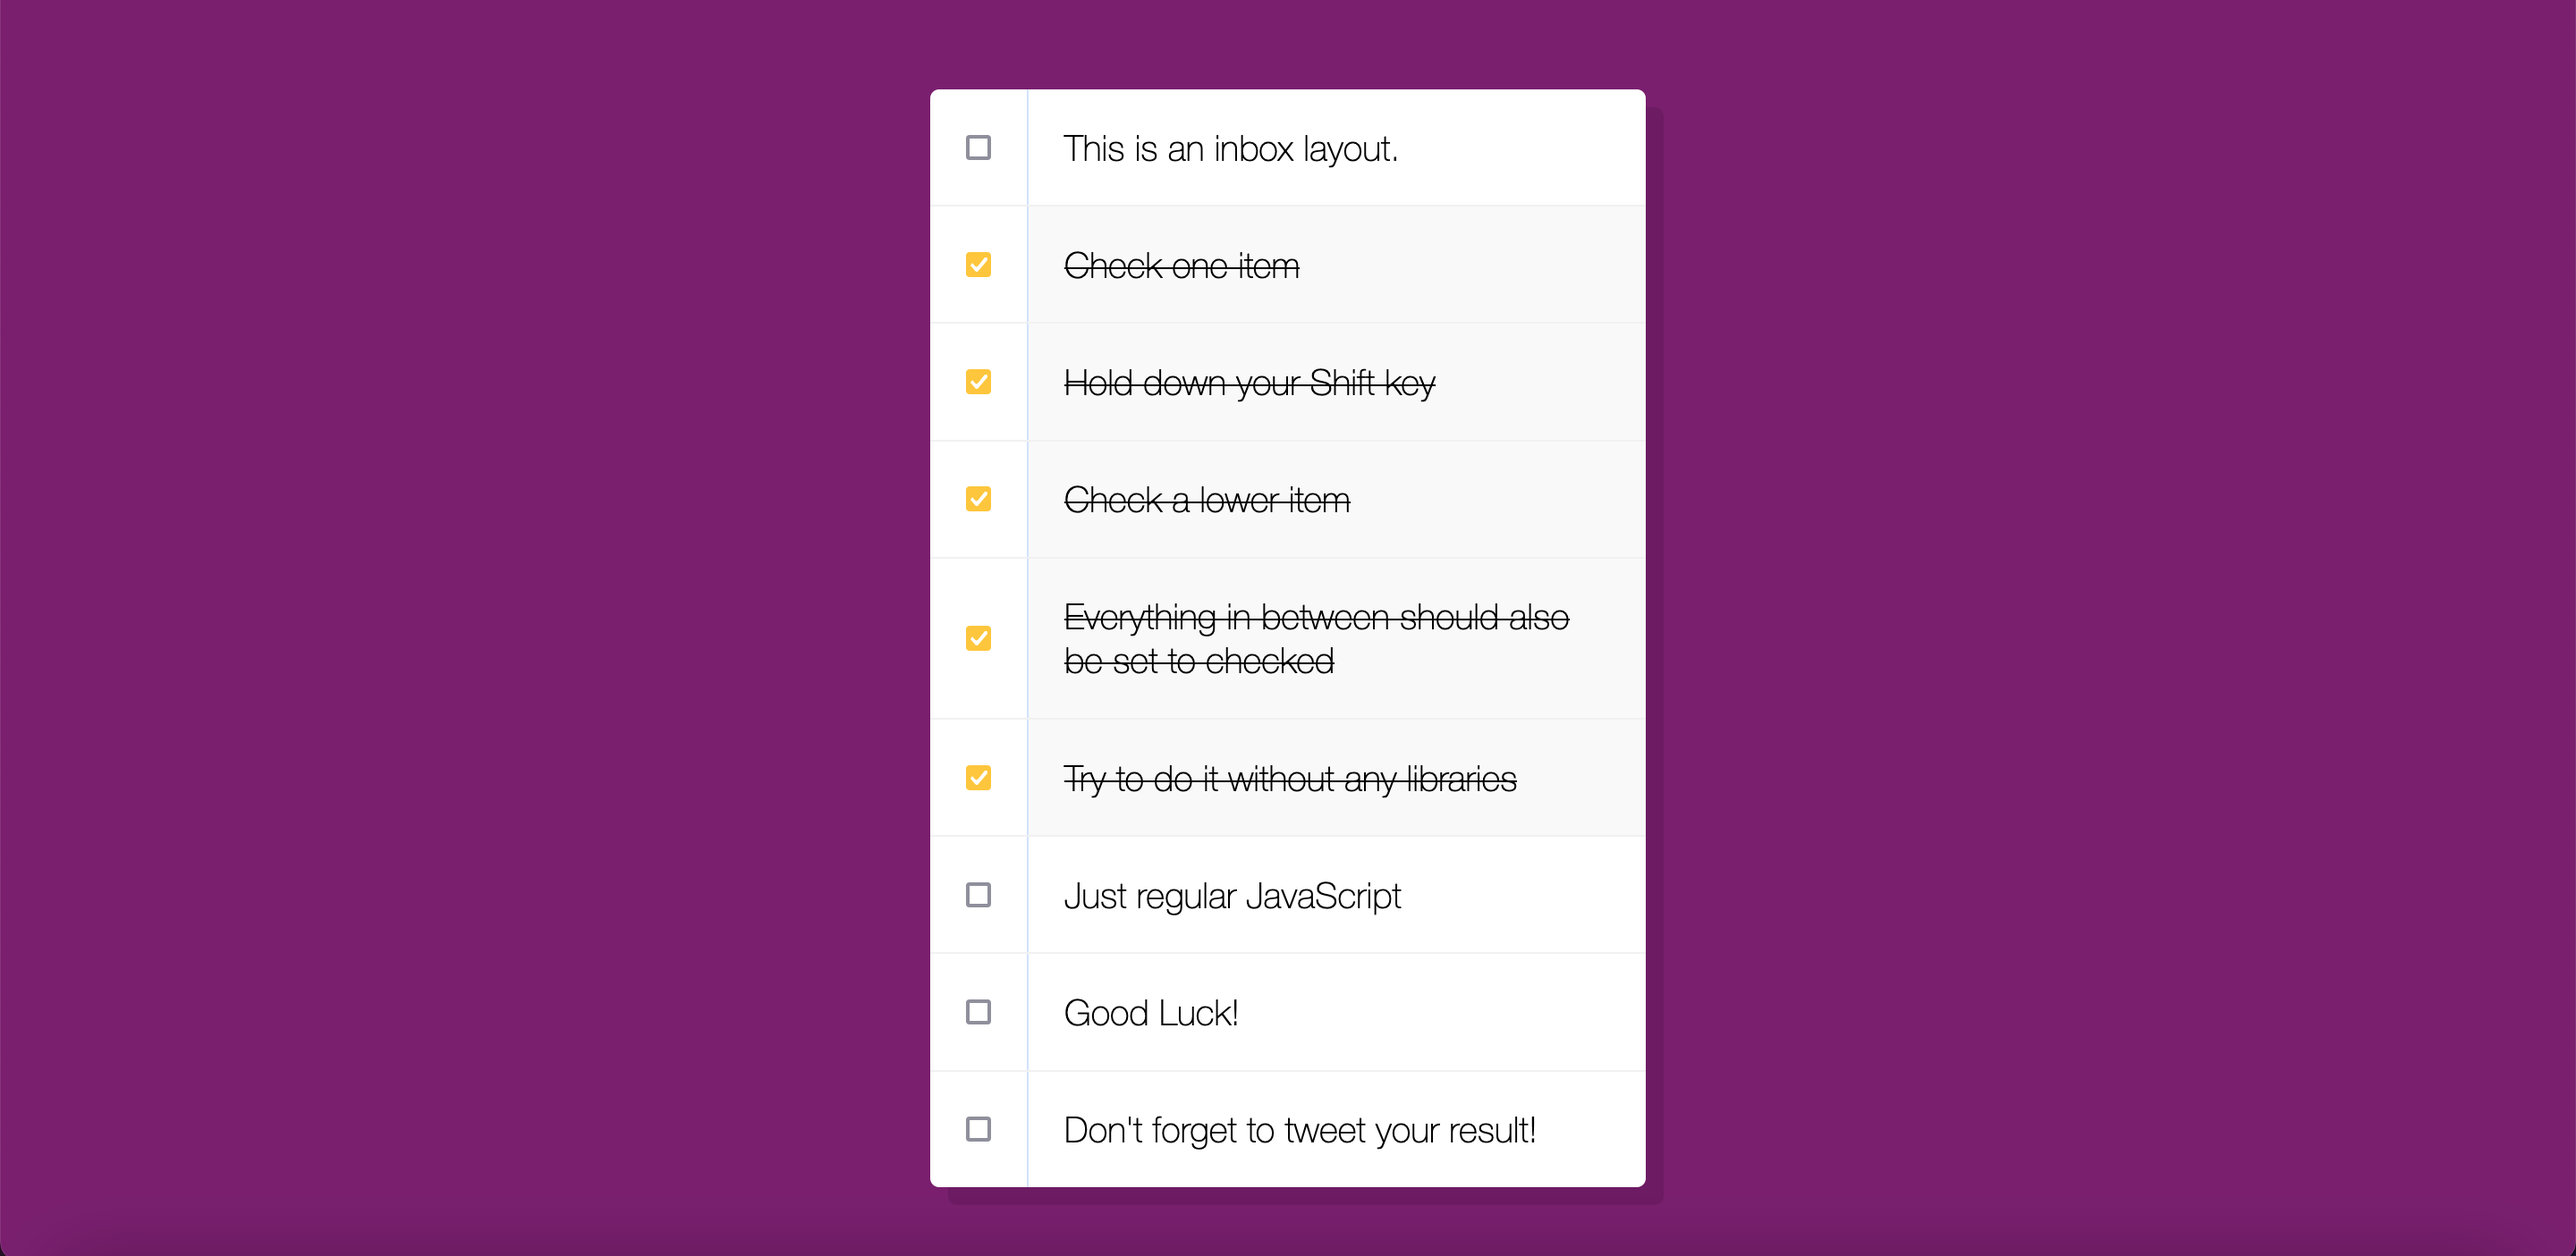
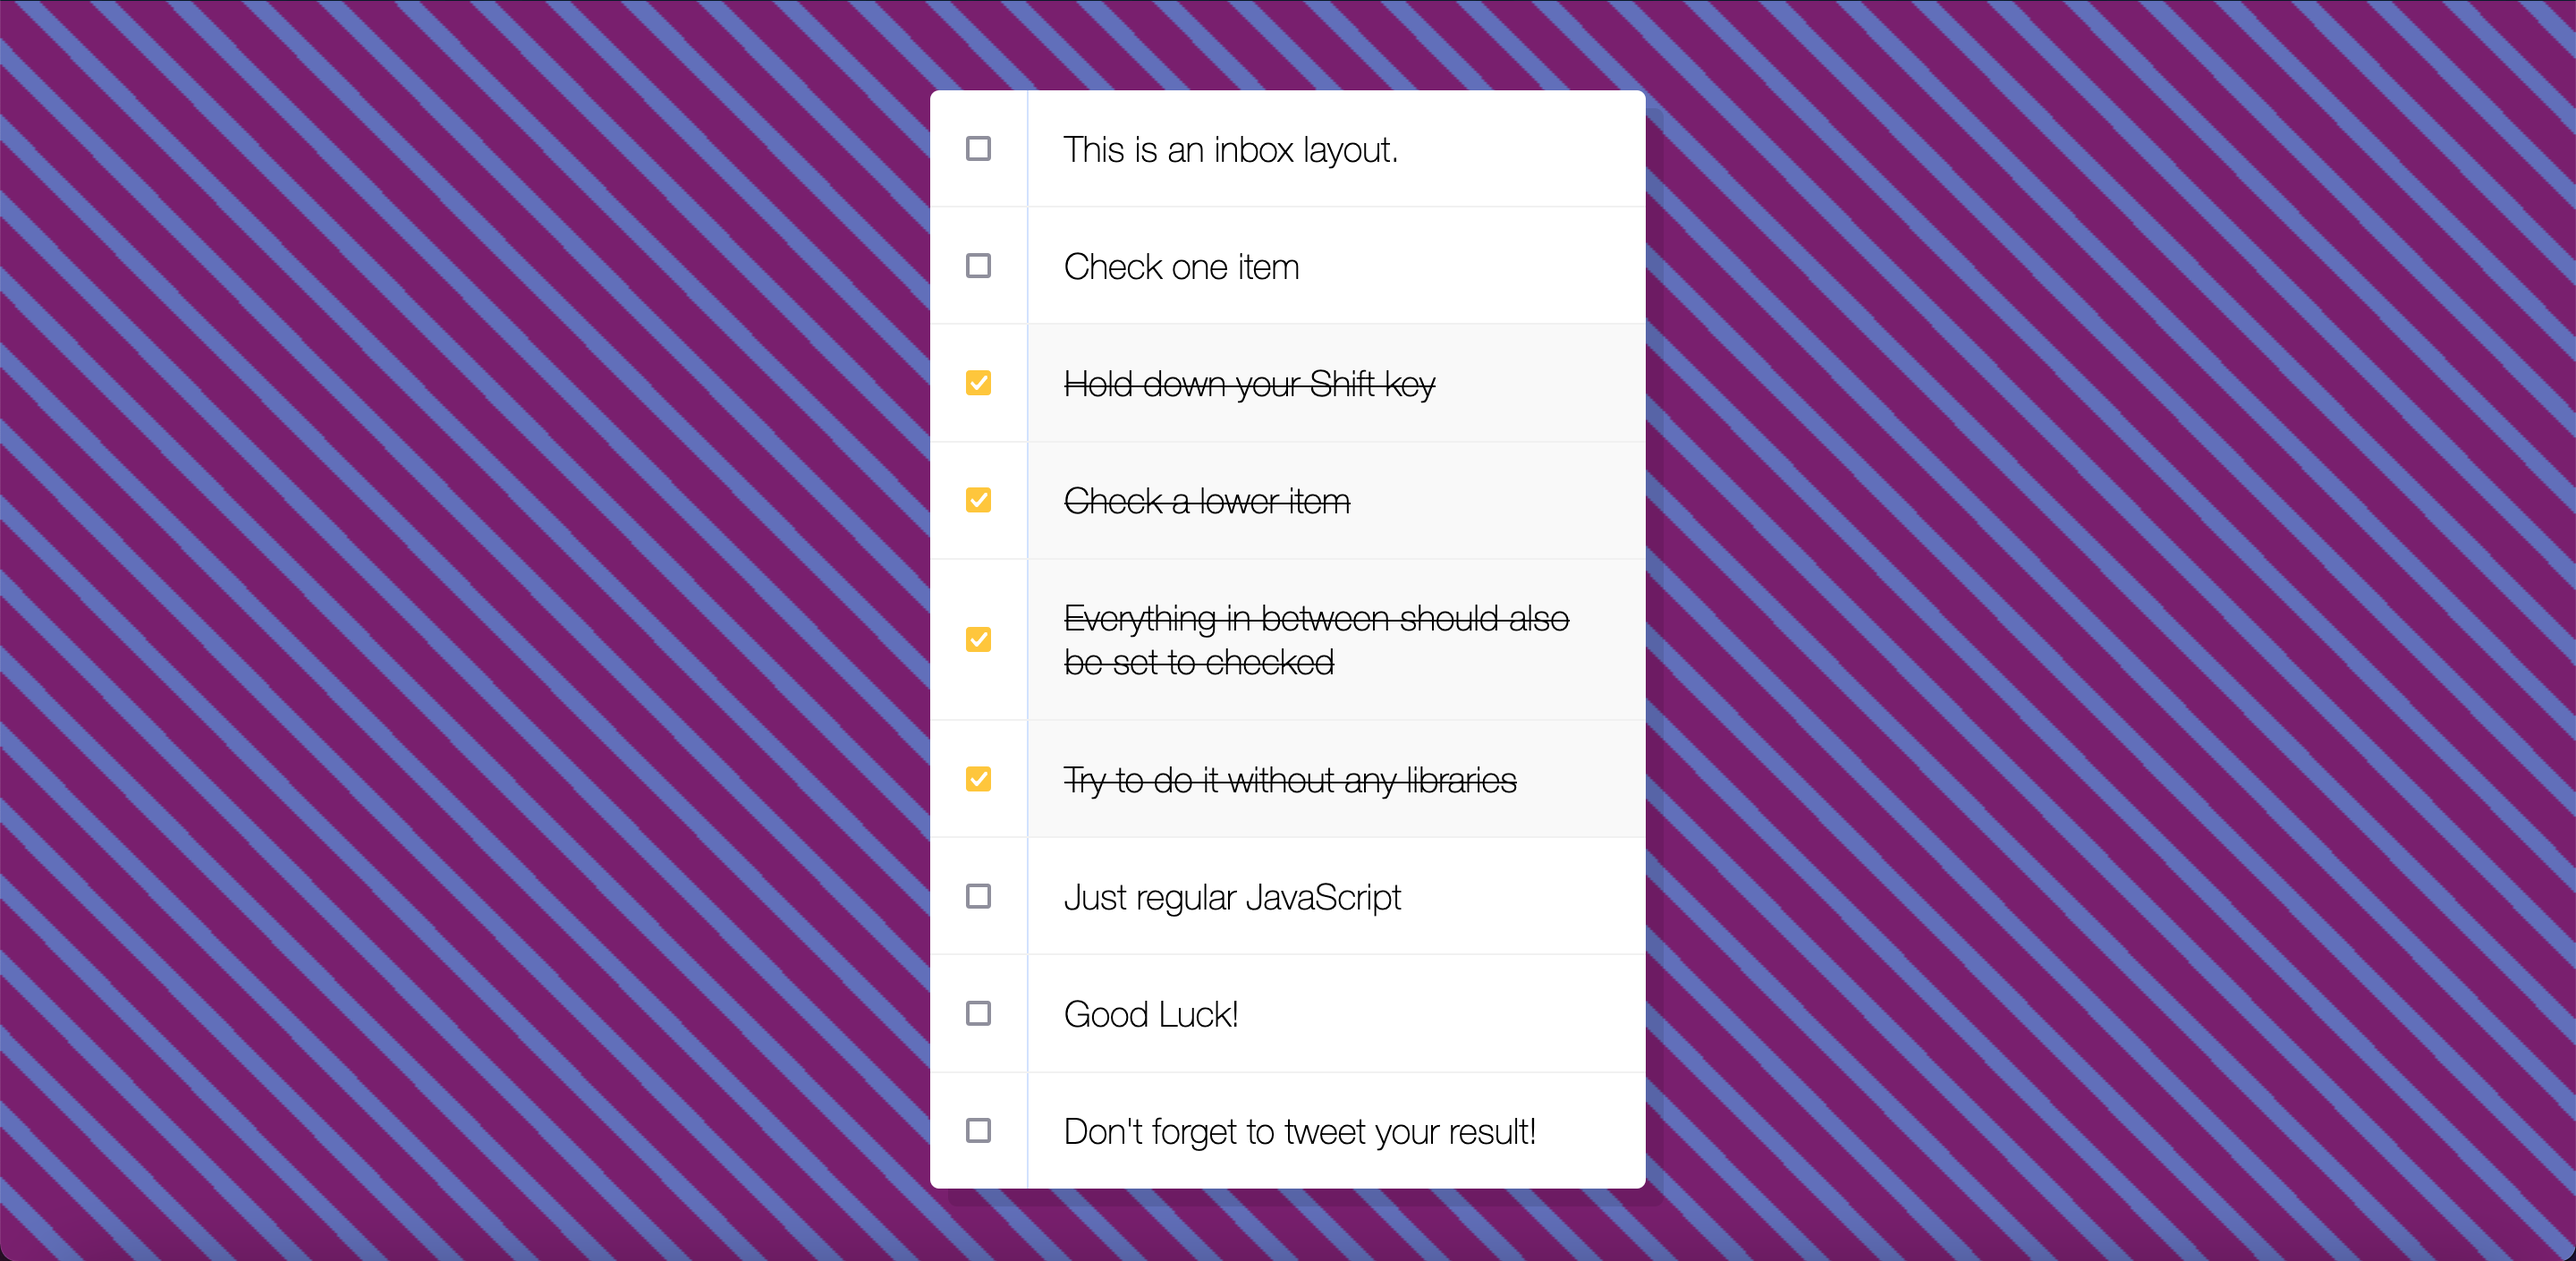
Updated background in Hold Shift project

diff --git a/week-five/hold_shift---checkboxes/style.css b/week-five/hold_shift---checkboxes/style.css
@@ -1,6 +1,13 @@
 html {
   font-family: sans-serif;
-  background: #7a1a6f;
+  /* background: #7a1a6f; */
+  background: repeating-linear-gradient(
+  45deg,
+  #606dbc,
+  #606dbc 10px,
+  #7a1a6f 10px,
+  #7a1a6f 30px
+);
 }
 
 .inbox {
